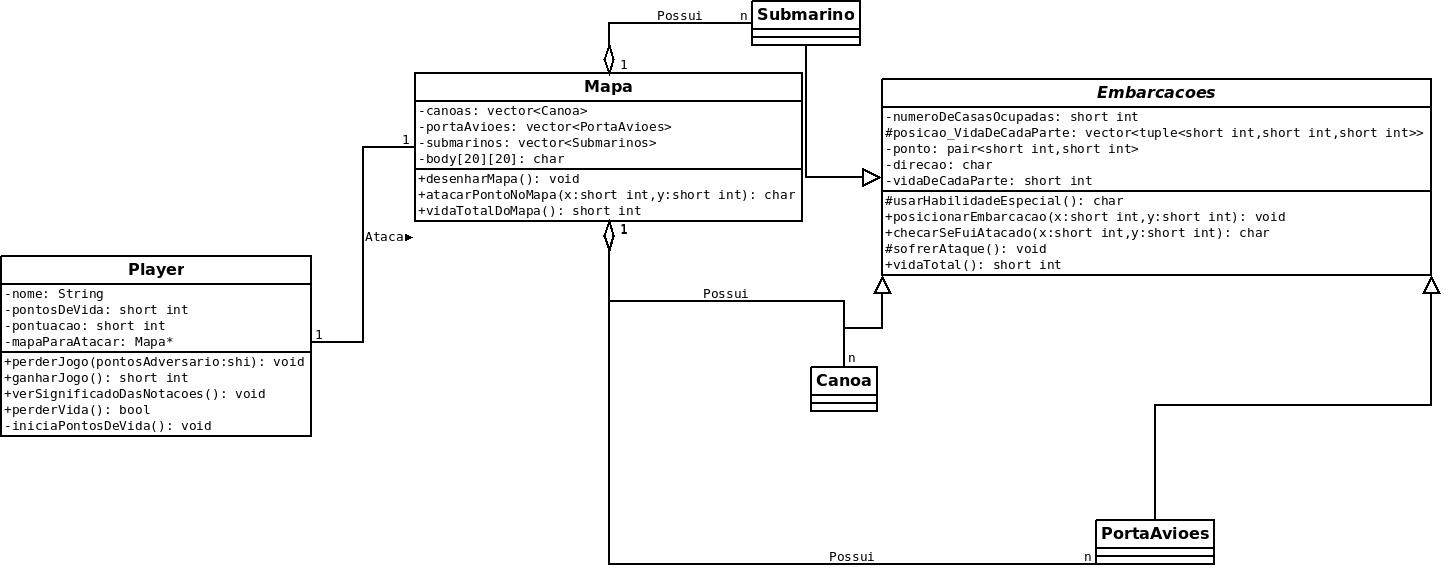
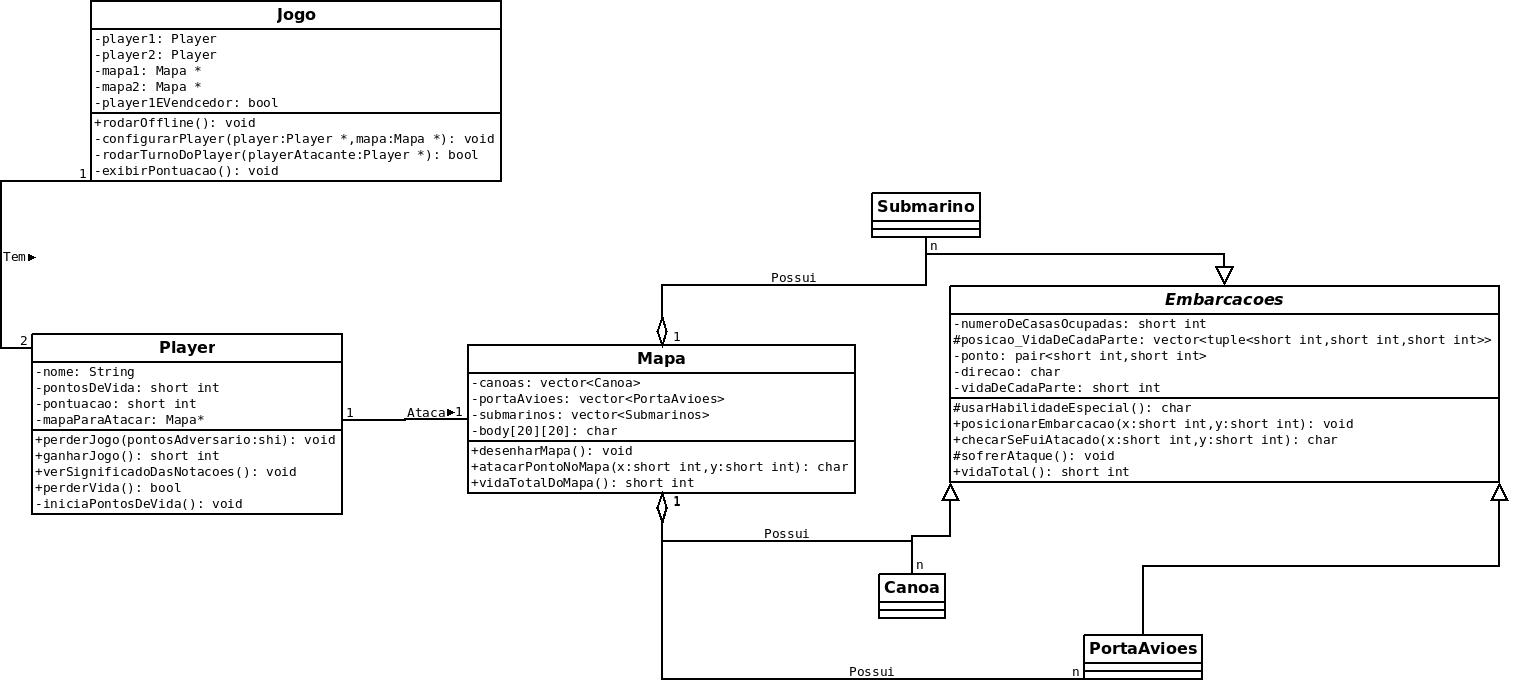
Adicao da classe jogo + alteracoes no diagrama de classes + alteracao na classe player(Adicao de um construtor 'vazio')

diff --git a/src/jogo.cpp b/src/jogo.cpp
@@ -1,0 +1,115 @@
+#include "jogo.hpp"
+void Jogo::configurarPlayer(Player* player,Mapa* mapa){
+  short nCanoas=1,nSubmarinos=1,nPortaAvioes=1,x,y;
+  char caractere;
+  string nomePlayer;
+  cout << "Player, posicione as canoas da seguinte maneira: digite o valor e x espaco y" << '\n';
+  printf("\033[2J\033[1;1H");
+  sleep(3.1);
+
+  do {
+    cout<<"Canoa ("<< nCanoas<<") : ";
+    cin >> x>>y;
+    mapa->setCanoas(Canoa(x,y));
+    nCanoas++;
+  } while(nCanoas!=7);
+
+  cout << "Player, posicione os submarinos da seguinte maneira:\ndigite o valor e x espaco y espaco 'caractere que indica para qual lado a embarcacao sera posicionada\n(N->Norte;S->Sul;L->Leste;O->Oeste)'" << '\n';
+  printf("\033[2J\033[1;1H");
+  sleep(10.1);
+
+  do {
+    cout<<"Submarino ("<< nSubmarinos<<") : ";
+    cin >> x>>y>>caractere;
+    mapa->setSubmarinos(Submarino(x,y,caractere));
+    nSubmarinos++;
+  } while(nSubmarinos!=5);
+
+  cout << "Player, posicione os porta-avioes da seguinte maneira:\ndigite o valor e x espaco y espaco 'caractere que indica para qual lado a embarcacao sera posicionada\n(N->Norte;S->Sul;L->Leste;O->Oeste)'" << '\n';
+  printf("\033[2J\033[1;1H");
+  sleep(7.1);
+
+  do {
+    cout<<"Porta-Avioes ("<< nPortaAvioes<<") : ";
+    cin >> x>>y>>caractere;
+    mapa->setPortaAvioes(PortaAvioes(x,y,caractere));
+    nPortaAvioes++;
+  } while(nPortaAvioes!=3);
+
+  cout << "Digite seu nome:";
+  cin>> nomePlayer;
+  player->setNome(nomePlayer);
+
+}
+Jogo::Jogo(){
+  this->player1EVencedor = true;
+}
+Jogo::~Jogo(){
+}
+void Jogo::rodarOffline(){
+  this->configurarPlayer(this->player1,this->mapa1);
+  this->configurarPlayer(this->player2,this->mapa2);
+  //Lembre-se que o player 1 configura o proprio mapa e ataca o mapa do player 2
+  this->player1->setMapa(this->mapa2);
+  this->player2->setMapa(this->mapa1);
+
+  printf("Bem vindos a batalha naval Players\n");
+  sleep(4.5);
+  printf("\033[2J\033[1;1H");
+  printf("%s(life):%d \n%s(life):%d\n",player1->getNome().c_str(),player1->getPontosDeVida(),player2->getNome().c_str(),player2->getPontosDeVida());
+  printf("Players voces desejam saber sobre as notacoes do jogo?[S/N]");
+  char querNotacoes='N';
+  cin >> querNotacoes;
+  if(querNotacoes=='S'){
+    player2->verSignificadoDasNotacoes();
+    printf("Pressione qualquer tecla [a-z] para prosseguirem\n");
+    scanf("%*s");
+  }else{
+    printf("Ok...\n");
+  }
+  printf("\033[2J\033[1;1H");
+  while (1) {
+    if(rodarTurnoDoPlayer(this->player1))
+      if(this->player2->perderVida())//Quando ele perde vida ele ja retorna se perdeu o game
+        break;
+    //Turno do player 2
+    if(rodarTurnoDoPlayer(this->player2))
+      if(this->player1->perderVida()){
+        this->player1EVencedor = false;
+        break;
+      }
+  }
+  this->exibirPontuacao();
+}
+void Jogo::exibirPontuacao(){
+  if(player1EVencedor){
+    shi pts = player1->ganharJogo();
+    player2->perderJogo(pts);
+  }else{
+    shi pts = player2->ganharJogo();
+    player1->perderJogo(pts);
+  }
+}
+bool Jogo::rodarTurnoDoPlayer(Player* playerAtacante){
+  short int x,y;
+  char saberSeVidaOponenteSeraReduzida = ' ';
+  //______________________________ PLAYER GAME
+  printf("Player : %s , aqui esta o seu mapa para atacar:\n",playerAtacante->getNome().c_str());
+  playerAtacante->getMapa()->desenharMapa();
+
+  printf("Escolha um ponto de ataque(digite apenas os valores de x e y separados por espaco):\n");
+  cin >>x>>y;
+
+  printf("\033[2J\033[1;1H");
+
+  saberSeVidaOponenteSeraReduzida = playerAtacante->getMapa()->atacarPontoNoMapa(x,y);
+
+
+  playerAtacante->getMapa()->desenharMapa();
+  printf("Pressione qualquer tecla [a-z] para passar a vez\n");
+  scanf("%*s");
+  if(saberSeVidaOponenteSeraReduzida=='D' || saberSeVidaOponenteSeraReduzida=='S')
+    return true;
+
+  return false;
+}

diff --git a/src/main.cpp b/src/main.cpp
@@ -10,100 +10,12 @@
 #include "mapa.hpp"
 #include "player.hpp"
 
+#include "jogo.hpp"
+
 using namespace std;
 
 int main(){
-    //Mapa mapa1,mapa2;
-    short int x,y,contador=0;
-    string line;
-    ifstream arquivo("doc/map_1.txt");
-    if(arquivo.fail()){
-      cout<<"Erro"<<endl;
-      exit(1);
-    }
-    cout << "Nao erro"<<endl;
-    // ---> Inicio da leitura do arquivo
-    while (!arquivo.eof()) {
-      contador++;
-      getline(arquivo,line);
-      if(contador>=8 and contador<=13){
-        printf("%s\n",line.c_str());
-      }
-    }
-/*
-    Player player1("Diana",&mapa1);//Mapa 1 e do player Dante
-    Player player2("Dante",&mapa2);//Mapa 2 e da player Diana
-    // ---> Final da leitura do arquivo
-    printf("Bem vindos a batalha naval Players\n");
-    sleep(4.5);
-    printf("\033[2J\033[1;1H");
-    printf("%s(life):%d \n%s(life):%d\n",player1.getNome().c_str(),player1.getPontosDeVida(),player2.getNome().c_str(),player2.getPontosDeVida() );
-    bool player2PerdeuGame = false,player1PerdeuGame = false;
-
-    printf("Players voces desejam saber sobre as notacoes do jogo?[S/N]");
-    char querNotacoes='N';
-    cin >> querNotacoes;
-    if(querNotacoes=='S'){
-      player2.verSignificadoDasNotacoes();
-      printf("Pressione qualquer tecla [a-z] para prosseguirem\n");
-      scanf("%*s");
-    }else{
-      printf("Ok...\n");
-    }
-
-    printf("\033[2J\033[1;1H");
-
-    while (1) {
-      short int x,y;
-      char saberSeVidaOponenteSeraReduzida = ' ';
-      //______________________________ PLAYER 1 GAME
-      printf("Player : %s , aqui esta o seu mapa para atacar:\n",player1.getNome().c_str());
-      player1.getMapa()->desenharMapa();
-
-      printf("Escolha um ponto de ataque(digite apenas os valores de x e y separados por espaco):\n");
-      cin >>x>>y;
-
-      printf("\033[2J\033[1;1H");
-
-      saberSeVidaOponenteSeraReduzida = player1.getMapa()->atacarPontoNoMapa(x,y);
-
-      if(saberSeVidaOponenteSeraReduzida=='D' || saberSeVidaOponenteSeraReduzida=='S'){
-        player2PerdeuGame = player2.perderVida();
-        if(player2PerdeuGame)
-          break;
-      }
-
-      player1.getMapa()->desenharMapa();
-      printf("Pressione qualquer tecla [a-z] para passar a vez\n");
-      scanf("%*s");
-      //______________________________ PLAYER 2 GAME
-      printf("Player : %s , aqui esta o seu mapa para atacar:\n",player2.getNome().c_str());
-      player2.getMapa()->desenharMapa();
-
-      printf("Escolha um ponto de ataque(digite apenas os valores de x e y separados por espaco):\n");
-      cin >>x>>y;
-
-      printf("\033[2J\033[1;1H");
-
-      saberSeVidaOponenteSeraReduzida = player2.getMapa()->atacarPontoNoMapa(x,y);
-
-      if(saberSeVidaOponenteSeraReduzida=='D' || saberSeVidaOponenteSeraReduzida=='S'){
-        player1PerdeuGame = player1.perderVida();
-        if(player1PerdeuGame)
-          break;
-      }
-
-      player2.getMapa()->desenharMapa();
-      printf("Pressione qualquer tecla [a-z] para passar a vez\n");
-      scanf("%*s");
-
-    }
-    if(player2PerdeuGame){
-      shi pts = player1.ganharJogo();
-      player2.perderJogo(pts);
-    }else{
-      shi pts = player2.ganharJogo();
-      player1.perderJogo(pts);
-    }
-*/    return 0;
+    Jogo jogo;
+    jogo.rodarOffline();
+    return 0;
 }

diff --git a/src/player.cpp b/src/player.cpp
@@ -1,6 +1,9 @@
 #include"player.hpp"
 #include"mapa.hpp"
 #include<string>
+Player::Player(){
+  this->setPontosDeVida(0);
+}
 void Player::iniciarPontosDeVida(){
   this->pontosDeVida = this->mapaParaAtacar->vidaTotalDoMapa();//Como o mapa o qual o player atacara e o seu proprio mapa possuem o mesmo numero e tipo de embarcacoes , tal atribuicao e valida
 }
@@ -35,7 +38,6 @@ bool Player::perderVida(){
 Player::Player(string nome,Mapa *mapaParaAtacar){
   this->setNome(nome);
   this->setMapa(mapaParaAtacar);
-  this->iniciarPontosDeVida();
 }
 Player::~Player(){
 }
@@ -52,6 +54,7 @@ Mapa* Player::getMapa(){
 }
 void Player::setMapa(Mapa *mapaParaAtacar){
   this->mapaParaAtacar = mapaParaAtacar;
+  this->iniciarPontosDeVida();
 }
 
 shi Player::getPontosDeVida(){

diff --git a/inc/jogo.hpp b/inc/jogo.hpp
@@ -1,0 +1,26 @@
+#ifndef JOGO_HPP
+#define JOGO_HPP
+
+#include<unistd.h>
+
+#include "mapa.hpp"
+#include "player.hpp"
+class Jogo{
+  private:
+    Player* player1 = new Player();
+    Player* player2 = new Player();
+    Mapa* mapa1 = new Mapa();
+    Mapa* mapa2 = new Mapa();
+    bool player1EVencedor;
+
+    
+    void configurarPlayer(Player* player,Mapa* mapa);
+    void exibirPontuacao();
+
+    bool rodarTurnoDoPlayer(Player* playerAtacante);
+  public:
+    Jogo();
+    ~Jogo();
+    void rodarOffline();
+};
+#endif

diff --git a/inc/player.hpp b/inc/player.hpp
@@ -9,8 +9,8 @@ class Player{
     shi pontosDeVida;
     shi pontuacao;
     Mapa *mapaParaAtacar;
-    void iniciarPontosDeVida();
   public:
+    void iniciarPontosDeVida();
     shi ganharJogo();
     void perderJogo(shi pontosAdversario);
     void verSignificadoDasNotacoes();
@@ -18,6 +18,7 @@ class Player{
     //________ Getters and Setters || Construtor
     Player(string nome,Mapa *mapaParaAtacar);
     ~Player();
+    Player();
 
     string getNome();
     void setNome(string nome);
